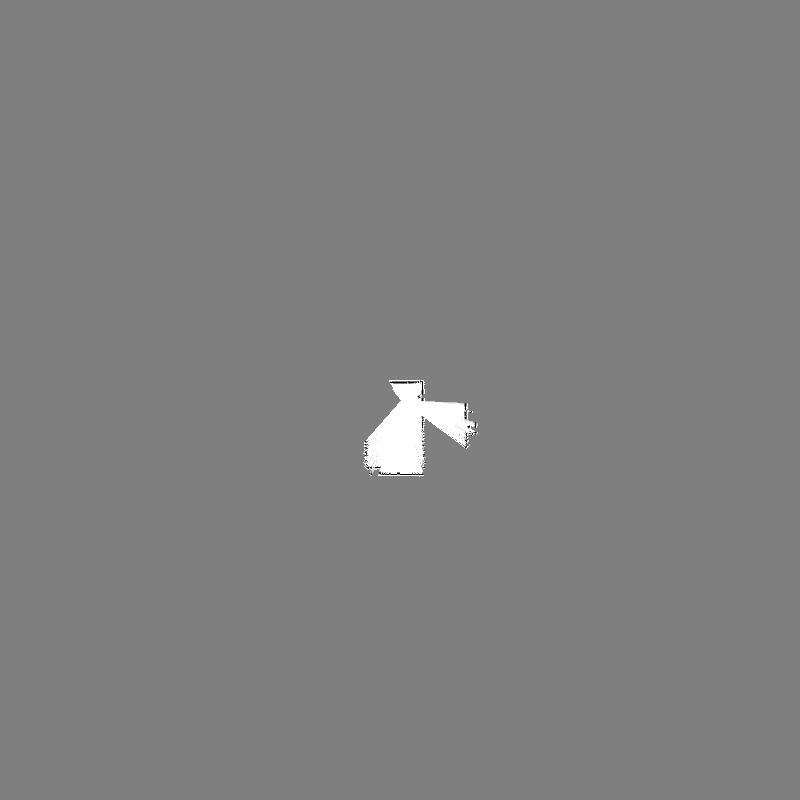
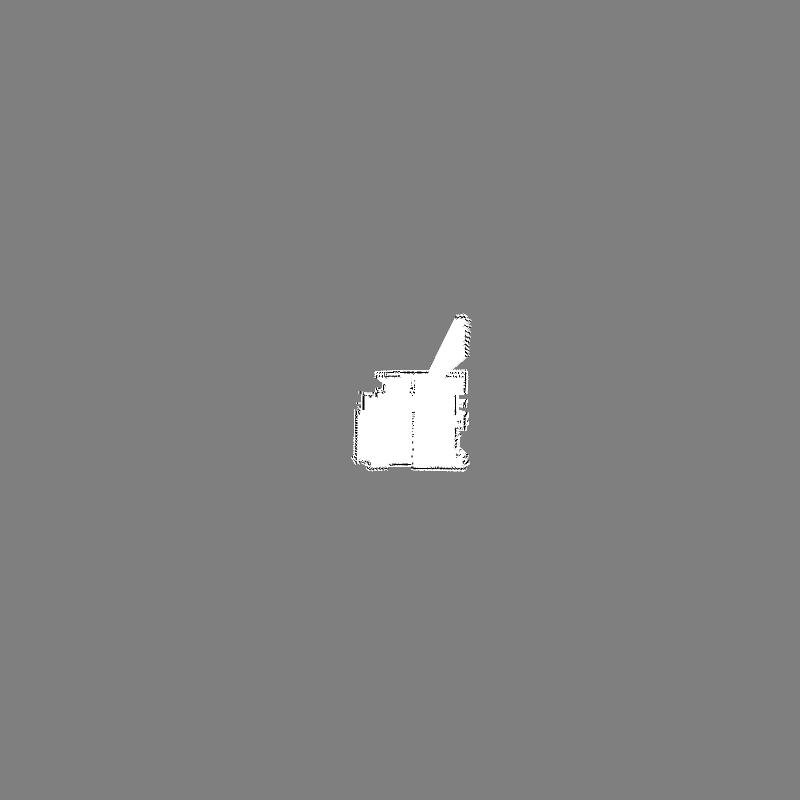
try controller with new lee

Changed region(s): [[0.4375, 0.375, 0.5938, 0.5938]]

diff --git a/lib/agents.py b/lib/agents.py
@@ -418,9 +418,10 @@ class Display(object):
 
     def draw_wps_delayed(self, im, waypoints):
         for i in range(len(waypoints)):
-            cv2.drawMarker(im, (waypoints[i][1], waypoints[i][0]), (0,0,0), markerSize=25, markerType=cv2.MARKER_SQUARE)
+            #cv2.drawMarker(im, (waypoints[i][1], waypoints[i][0]), (0,0,0), markerSize=25, markerType=cv2.MARKER_TRIANGLE_UP)
+            cv2.drawMarker(im, waypoints[i], (0,0,0), markerSize=25, markerType=cv2.MARKER_TRIANGLE_UP)
             if i != 0:
-                cv2.line(im, (waypoints[i-1][1], waypoints[i-1][0]), (waypoints[i][1], waypoints[i][0]), (0,0,255), 1)
+                cv2.line(im, waypoints[i-1], waypoints[i], (0,0,255), 1)
             
             
 
